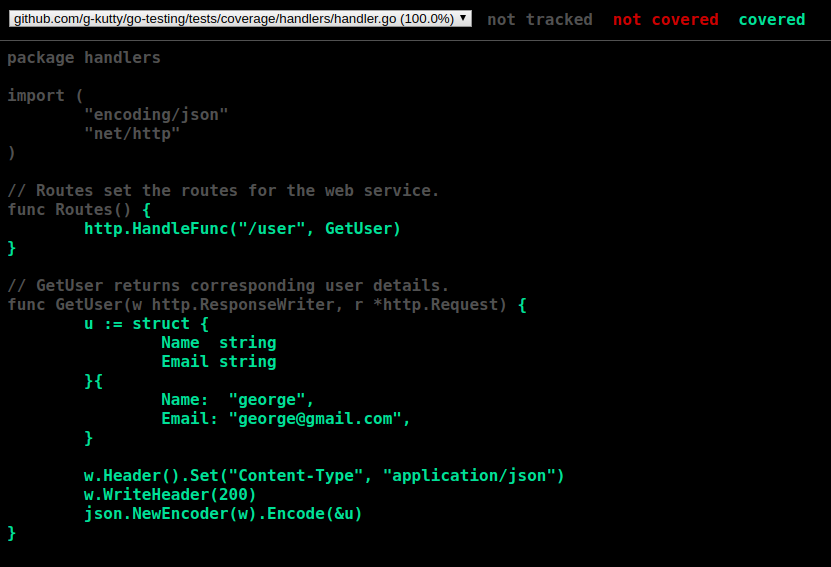
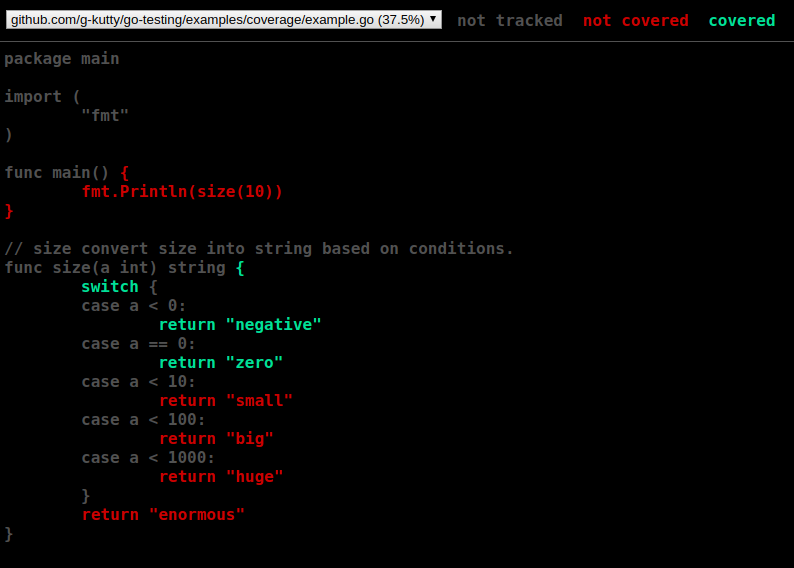
Updated slides with new words

diff --git a/examples/coverage/example.go b/examples/coverage/example.go
@@ -1,0 +1,26 @@
+package main
+
+import (
+	"fmt"
+)
+
+func main() {
+	fmt.Println(size(10))
+}
+
+// size convert size into string based on conditions.
+func size(a int) string {
+	switch {
+	case a < 0:
+		return "negative"
+	case a == 0:
+		return "zero"
+	case a < 10:
+		return "small"
+	case a < 100:
+		return "big"
+	case a < 1000:
+		return "huge"
+	}
+	return "enormous"
+}

diff --git a/examples/coverage/example_test.go b/examples/coverage/example_test.go
@@ -1,0 +1,22 @@
+package main
+
+import "testing"
+
+func TestSize(t *testing.T) {
+	// test cases
+	var tests = []struct {
+		in  int
+		out string
+	}{
+		{-1, "negative"},
+		{0, "zero"},
+	}
+
+	// run each test case
+	for _, tt := range tests {
+		res := size(tt.in)
+		if res != tt.out {
+			t.Errorf("size(%d) = %s; want %s", tt.in, res, tt.out)
+		}
+	}
+}

diff --git a/examples/rest_api/main.go b/examples/rest_api/main.go
@@ -4,7 +4,7 @@ import (
 	"log"
 	"net/http"
 
-	"github.com/g-kutty/go-testing/tests/coverage/handlers"
+	"github.com/g-kutty/go-testing/examples/coverage/handlers"
 )
 
 func main() {
